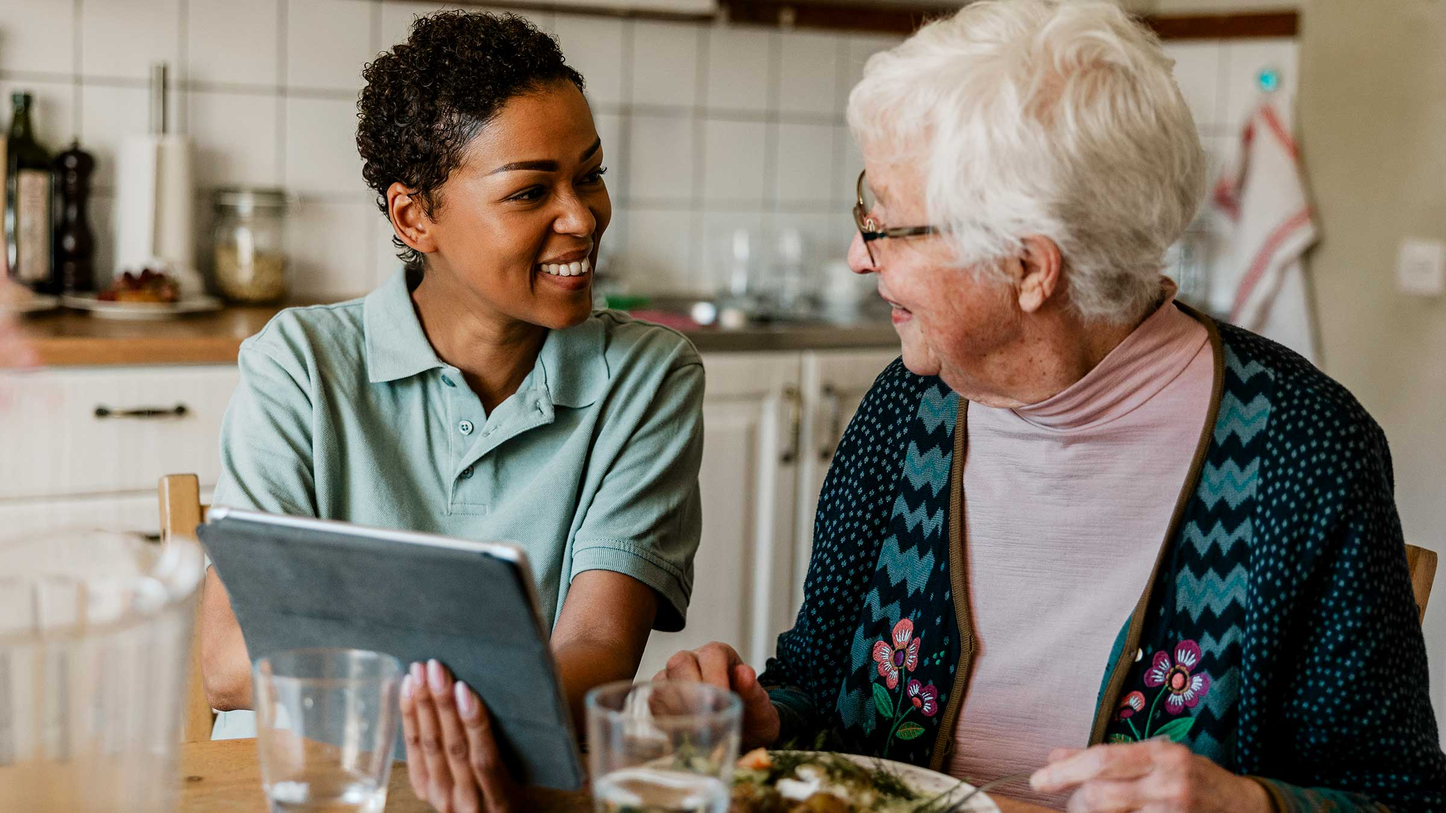
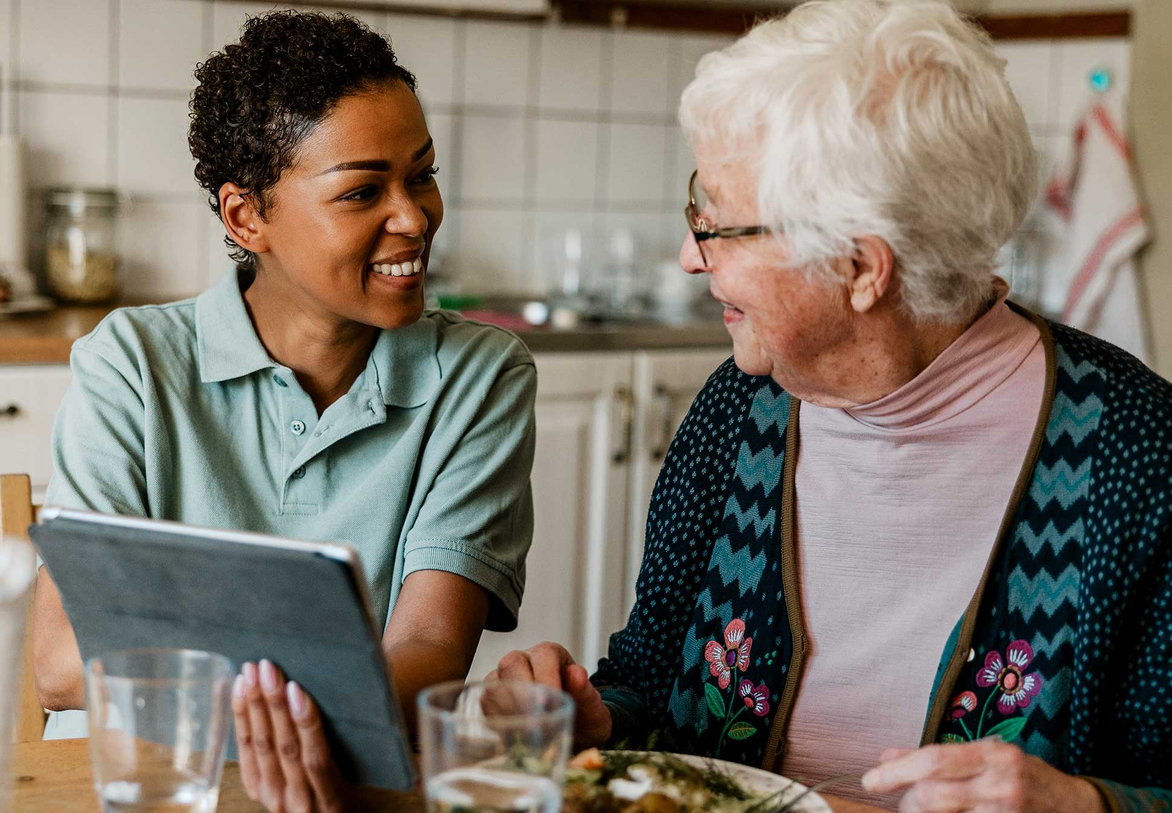
Tilpasning af størrelser. Tilføjet skygger.

diff --git a/css/style.css b/css/style.css
@@ -15,16 +15,26 @@ body {
     font-family: "Inter", system-ui, -apple-system, "Segoe UI", Roboto, "Helvetica Neue", Arial, sans-serif;
 }
 
-h1, h2, h3 {
+h1, h2, h3, .subheader {
     color: #142933;
+    font-weight: 700;
 }
 
 .btn {
-    color: #142933;
-    text-decoration: none;
+    display: inline-block;
     background-color: #FA9442;
+    color: #142933;
+    min-width: 10rem;
     padding: 0.8rem 2.5rem;
     border-radius: 50px;
+    text-decoration: none;
+    text-align: center;
+    font-weight: 600;
+    font-size: 1rem;
+    box-shadow: 2px 2px 4px rgba(0, 0, 0, 0.3);
+    box-shadow: 
+    inset 2px 2px 4px rgba(255, 255, 255, 0.3),
+    2px 2px 4px rgba(0, 0, 0, 0.3);
 }
 
 img {
@@ -35,7 +45,8 @@ img {
 
 header {
     background-color: #340059;
-    padding: 1rem;
+    padding: 1rem 10rem;
+    text-align: end;
 }
 
 header a {
@@ -50,45 +61,64 @@ header a {
     display: flex;
 }
 
-.tekst1 {
-    width: 47%;
-    padding-top: ;
+.kasse1 {
+    width: 50%;
+    padding: 4rem;
 }
 
-/*___ CROP BILLEDE ___*/
 .billede {
-    width: 53%;
+    width: 50%;
+    height: auto;
+}
+
+.billede img {
+    display: block;
 }
 
 h1 {
-    font-size: 5rem;
-    font-weight: 700;
+    font-size: 4rem;
 }
 
 .subheader {
-    font-size: 4.4rem;
-    font-weight: 700;
-    color: #142933;
-    padding-bottom: 1rem;
+    font-size: 3.6rem;
+    padding-bottom: 2.5rem;
 }
 
 .uddyb {
-    font-size: 2rem;
+    font-size: 1.5rem;
     font-weight: 400;
-    padding-bottom: 0.5rem;
+    padding-bottom: 0.7rem;
+}
+
+.btn-start {
+    display: inline-block;
+    background-color: #FA9442;
+    color: #142933;
+    min-width: 14rem;
+    padding: 0.8rem 2.5rem;
+    border-radius: 50px;
+    text-decoration: none;
+    text-align: center;
+    font-weight: 600;
+    font-size: 1.3rem;
+    box-shadow: 
+    inset 2px 2px 4px rgba(255, 255, 255, 0.3),
+    2px 2px 4px rgba(0, 0, 0, 0.3);
 }
 
 /*___ Anden Del ___*/
 
 .oversigt {
-    margin: 3rem 6.5rem;
+    margin-top: 2rem;
+    margin-bottom: 4.5rem;
+    margin-left: 6.5rem;
+    margin-right: 6.5rem;
     display: flex;
     justify-content: space-around;
 }
 
 .oversigt h2 {
     font-size: 2.5rem;
-    font-weight: 700;
     padding: 1rem;
 }
 
@@ -100,28 +130,45 @@ h1 {
 .box2 {
     background-color: #FEEAD9;
     width: 100%;
-    height: 450px;
-    padding: 1rem;
+    height: 350px;
+    padding: 1rem 2rem;
     border-radius: 20px;
     display: flex;
     flex-direction: column;
     justify-content: space-around;
+    box-shadow: 4px 4px 8px rgba(0, 0, 0, 0.3);
 }
 
-.oversigt a {
+.box3 {
+    width: 100%;
+    height: 350px;
+    border-radius: 20px;
+    position: relative;
+    box-shadow: 4px 4px 8px rgba(0, 0, 0, 0.3);
+}
+
+.oversigt a:not(.btn) {
     color: #142933;
     text-decoration: none;
-    font-size: 2.2rem;
-    font-weight: 700;
+    font-size: 1.8rem;
+    font-weight: 600;
+}
+
+.oversigt .btn {
+    position: absolute;
 }
 
 .oversigt img {
     border-radius: 20px;
+    width: 100%;
+    height: 350px;
+    object-fit: cover;
 }
 
 .oversigt h3 {
     font-size: 2.5rem;
-    font-weight: 700;
+    position: absolute;
+    text-shadow: 2px 2px 4px rgba(255, 255, 255, 0.5);
 }
 
 /*___ Tredje Del ___*/
@@ -132,17 +179,15 @@ h1 {
 }
 
 .del3 h2 {
-    font-size: 4rem;
-    font-weight: 700;
+    font-size: 3.5rem;
     padding-bottom: 1rem;
 }
 
 .search {
     background-color: white;
-    padding: 1rem;
+    padding: 1rem 2rem;
     width: 100%;
     border-radius: 50px;
-
 }
 
 .del3 a {
@@ -166,27 +211,28 @@ h1 {
     justify-content: space-around;
 }
 
-.box3 {
+.box4 {
     background-color: #FEEAD9;
     border-radius: 20px;
     width:47%;
-    padding: 1rem;
+    padding: 1.5rem;
+    box-shadow: 4px 4px 8px rgba(0, 0, 0, 0.3);
 }
 
 .del4 h3 {
     font-size: 2.5rem;
-    font-weight: 700;
     padding-bottom: 1rem;
 }
 
 .del4 p {
-    font-size: 1.2rem;
+    font-size: 1rem;
     font-weight: 400;
     padding-bottom: 1rem;
+    line-height: 1.5;
 }
 
 .mail {
-     background-color: white;
+    background-color: white;
     padding: 1rem;
     width: 100%;
     border-radius: 50px;

diff --git a/index.html b/index.html
@@ -31,7 +31,7 @@
         <!-- Første Del -->
 
         <section class="del1">
-            <div class="tekst1">
+            <div class="kasse1">
                 <h1>
                     Digital sikkerhed
                 </h1>
@@ -44,7 +44,7 @@
                 <p class="uddyb">
                     Vi har samlet relevante artikler i vores vidensdatabase, men du kan altid starte her.
                 </p>
-                <a href="#" class="btn">Start her</a>
+                <a href="#" class="btn-start">Start her</a>
             </div>
             <div class="billede">
                 <img src="img/senior-and-technology.jpg" alt="Yngre og ældre kvinde sidder sammen om en iPad og smiler til hinanden.">
@@ -80,13 +80,13 @@
                 <h2>
                     Til skolerne
                 </h2>
-                <div class="box2">
+                <div class="box3">
                     <h3>
-                        Cybersikkerhed
+                        Cybersecurity
                     </h3>
-                    <img src="img/data-security.jpg" alt="Billede til undervisningsmaterialet Cybersikkerhed">
+                    <img src="img/data-security.jpg" alt="Billede til undervisningsmaterialet Cybersecurity">
+                    <a href="#" class="btn">Gå til materialet</a>
                 </div>
-                <a href="#" class="btn">Gå til materialet</a>
             </div>
         </section>
 
@@ -117,7 +117,7 @@
         <!-- Fjerde Del -->
 
         <section class="del4">
-            <div class="box3">
+            <div class="box4">
                 <h3>
                     Hvad vi står for
                 </h3>
@@ -131,7 +131,7 @@
                     <a href="#" class="btn">Læs mere</a>
                 </div>
             </div>
-            <div class="box3">
+            <div class="box4">
                 <h3>
                     Tilmeld nyhedsbrev
                 </h3>
